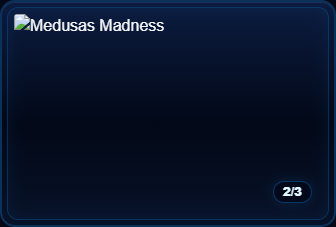
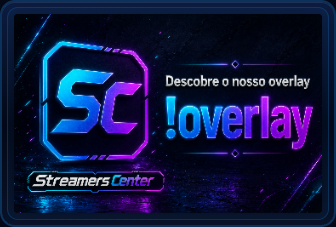
Refresh landing media presentation

diff --git a/src/components/LandingPage/LandingPage.jsx b/src/components/LandingPage/LandingPage.jsx
@@ -605,27 +605,9 @@ function StreamerLanding({ headingRef, pricingPlans, partners, onStreamerCta, on
         <div className="lp-selected-hero__media" aria-hidden="true">
           <img src={LANDING_IMAGES.streamer} alt="" loading="eager" decoding="async" />
         </div>
-        <div className="lp-selected-hero__copy">
-          <span className="lp-eyebrow">Streamer Center</span>
-          <h1 ref={headingRef} tabIndex="-1">
-            iGaming overlays and casino streamer tools.
-          </h1>
-          <p>
-            Professional iGaming overlays, casino overlays, browser-source overlay trackers, bonus hunt trackers,
-            slot requests, tournaments, giveaways, viewer games and chat-connected tools in one production dashboard.
-          </p>
-          <div className="lp-selected-hero__ctas">
-            <button type="button" className="lp-btn lp-btn--streamer" onClick={onStreamerCta}>
-              Build My Stream <ArrowRight size={18} />
-            </button>
-            <Link className="lp-btn lp-btn--ghost" to="/offers">
-              View partners <Sparkles size={18} />
-            </Link>
-          </div>
-        </div>
-        <div className="lp-selected-hero__preview">
-          <StreamerPreview expanded />
-        </div>
+        <h1 ref={headingRef} tabIndex="-1" className="lp-sr-only">
+          iGaming overlays and casino streamer tools.
+        </h1>
       </section>
 
       <section className="lp-section">

diff --git a/src/components/LandingPage/LandingPage.css b/src/components/LandingPage/LandingPage.css
@@ -1062,6 +1062,20 @@
     linear-gradient(180deg, rgba(5, 7, 13, 0.48), rgba(5, 7, 13, 0.86));
 }
 
+.lp-selected--streamer .lp-selected-hero {
+  max-width: none;
+  min-height: min(100dvh, 980px);
+  padding: 0;
+}
+
+.lp-selected--streamer .lp-selected-hero__media {
+  z-index: 0;
+}
+
+.lp-selected--streamer .lp-selected-hero__media::after {
+  content: none;
+}
+
 .lp-selected-hero__media img {
   width: 100%;
   height: 100%;
@@ -1075,7 +1089,10 @@
 }
 
 .lp-selected--streamer .lp-selected-hero__media img {
+  object-fit: contain;
   object-position: center;
+  filter: none;
+  background: #050816;
 }
 
 .lp-selected-hero__copy {

diff --git a/src/components/OverlayCenter/editor/betterWidgetRegistry.jsx b/src/components/OverlayCenter/editor/betterWidgetRegistry.jsx
@@ -281,12 +281,8 @@ const MOCK_WIDGET_CONFIGS = {
   },
   background: {},
   slideshow_frame: {
-    mediaText: [
-      "https://images-cdn.softswiss.net/i/s2/pragmaticplay/GatesOfOlympus1000.png|image|Gates of Olympus",
-      "https://images-cdn.softswiss.net/i/s2/playngo/MedusasMadness.png|image|Medusas Madness",
-      "https://interactive-examples.mdn.mozilla.net/media/cc0-videos/flower.mp4|video|Demo video",
-    ].join("\n"),
-    showCounter: true,
+    mediaText: "/banner.png|image|Banner",
+    showCounter: false,
   },
   bets: {
     question: "Bonus Hunt Result",

diff --git a/src/components/OverlayCenter/editor/standardWidgetPresets.js b/src/components/OverlayCenter/editor/standardWidgetPresets.js
@@ -424,7 +424,7 @@ export const STANDARD_BETTER_WIDGET_CONTROLS = Object.freeze({
   },
   slideshow_frame: {
     displayStyle: "better_slideshow_frame",
-    mediaText: "",
+    mediaText: "/banner.png|image|Banner",
     frameStyle: "neon",
     frameColor: "#0e5391",
     accentColor: "#ffb020",

diff --git a/src/components/OverlayCenter/editor/BetterWidgetPackages.jsx b/src/components/OverlayCenter/editor/BetterWidgetPackages.jsx
@@ -965,7 +965,7 @@ const BASE_BETTER_CONFIG = {
   },
   slideshow_frame: {
     displayStyle: "better_slideshow_frame",
-    mediaText: "",
+    mediaText: "/banner.png|image|Banner",
     frameStyle: "neon",
     frameColor: "#2f63c9",
     accentColor: "#45c8ff",
